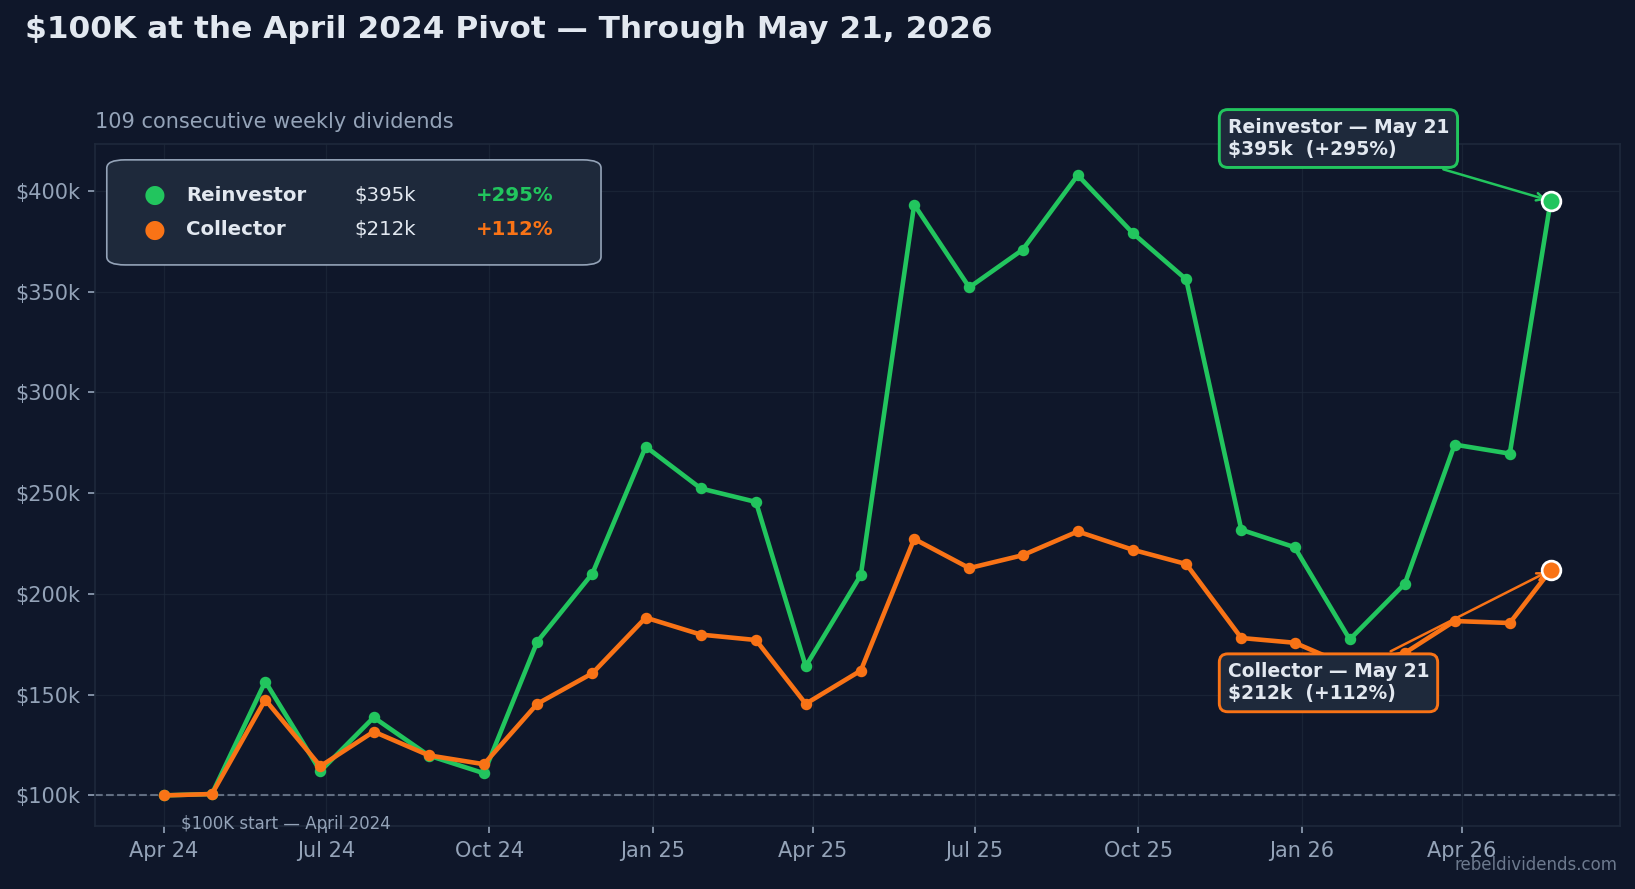
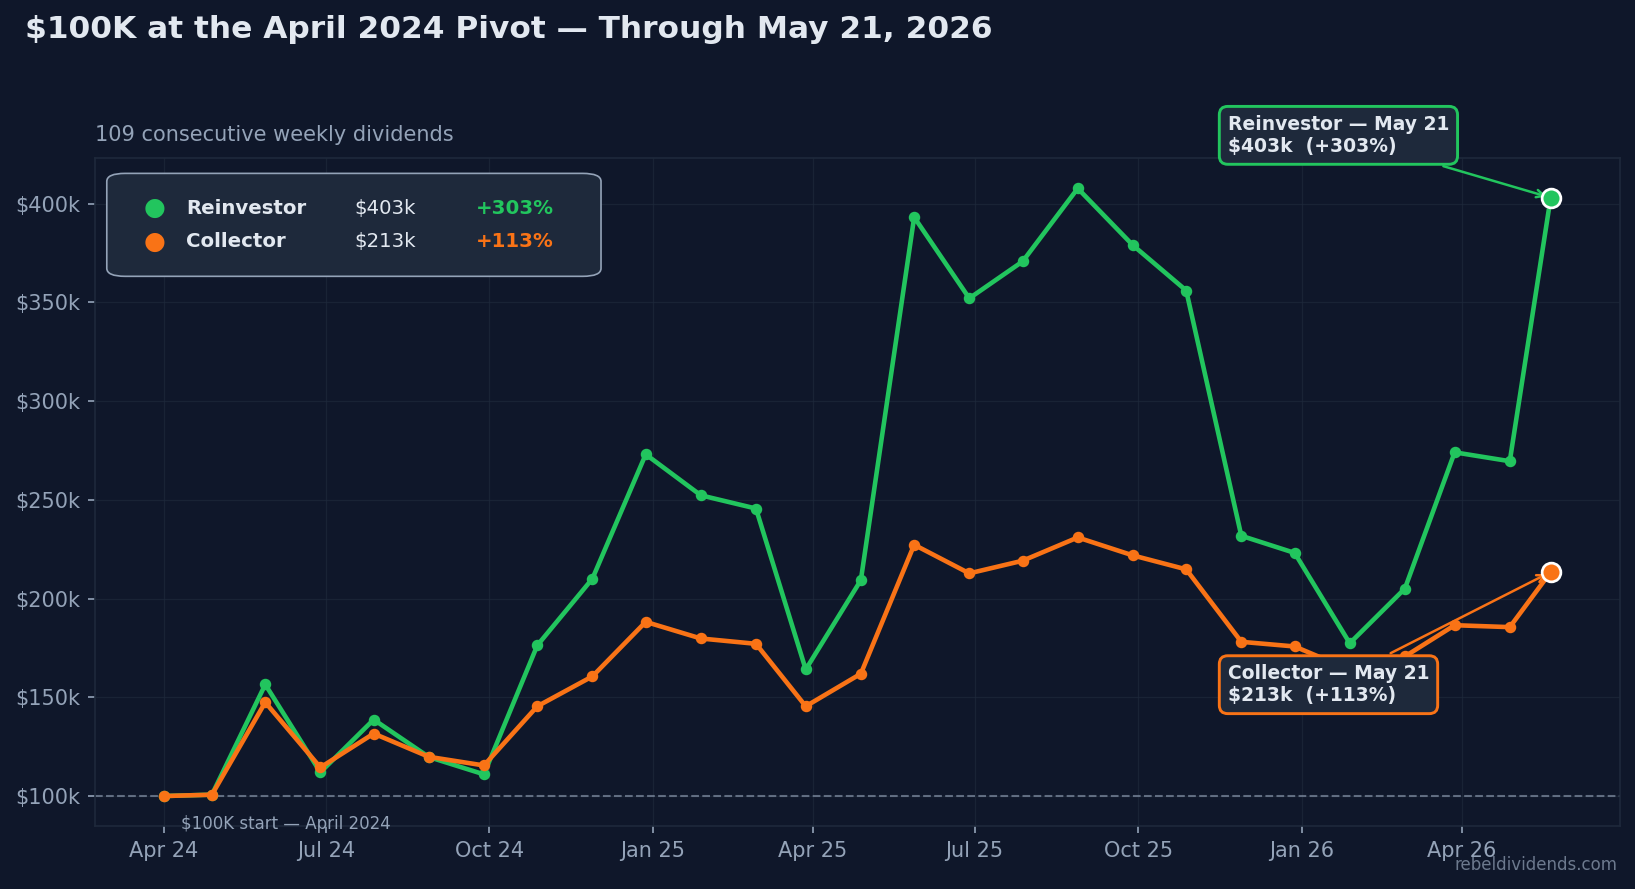
May 21 CORRECTION 2: price /bin/zsh.00246 +23.0%, chart +303%

diff --git a/outputs/2026-05-21/elementor.html b/outputs/2026-05-21/elementor.html
@@ -1,16 +1,16 @@
 <div style="max-width:760px;margin:0 auto;font-family:Arial,'Helvetica Neue',Helvetica,sans-serif;">
 
-<div style="font-size:13px;color:#888888;text-transform:uppercase;letter-spacing:2px;margin-bottom:8px;font-weight:700;">Rebel Dividends &middot; May 21, 2026 &middot; $0.00241 (<span style="color:#4ade80;">+20.5%</span>)</div>
+<div style="font-size:13px;color:#888888;text-transform:uppercase;letter-spacing:2px;margin-bottom:8px;font-weight:700;">Rebel Dividends &middot; May 21, 2026 &middot; $0.00246 (<span style="color:#4ade80;">+23.0%</span>)</div>
 
 <h2 style="margin:0 0 14px 0;font-size:26px;font-weight:700;color:#000000;line-height:1.3;">HYPE at $59.48. We Are Calling $90 in 90 Days.</h2>
 
-<p style="margin:0 0 18px 0;font-size:17px;line-height:1.7;color:#1a1a1a;">Your shares are at <strong>$0.00241</strong> this morning, up 20.5%. HYPE is at <strong>$59.48</strong>. We are calling <strong>$90 in 90 days</strong>. That is the target. The setup right now is as strong as it has ever been.</p>
+<p style="margin:0 0 18px 0;font-size:17px;line-height:1.7;color:#1a1a1a;">Your shares are at <strong>$0.00246</strong> this morning, up 23.0%. HYPE is at <strong>$59.48</strong>. We are calling <strong>$90 in 90 days</strong>. That is the target. The setup right now is as strong as it has ever been.</p>
 
 <p style="margin:0 0 18px 0;font-size:17px;line-height:1.7;color:#1a1a1a;"><strong style="color:#0a7c42;">$90 is the next chapter.</strong> Hyperliquid bought back and burned $1.3 billion in HYPE. That is 4.17% of supply gone permanently. 97% of protocol fees go back to token holders. The platform runs 70% of all decentralized perps volume at $180B a month. The platform has not slipped. The token is just catching up to what it is actually worth.</p>
 
 <p style="margin:0 0 18px 0;font-size:17px;line-height:1.7;color:#1a1a1a;">Tuesday&rsquo;s webinar walked through the full picture. The macro case for $90 and beyond, the buyback flywheel, and the weekly income that keeps paying no matter where HYPE prints on any given day. If you missed it, the replay is live now.</p>
 
-<p style="margin:0 0 18px 0;font-size:17px;line-height:1.7;color:#1a1a1a;"><strong>Reinvestors who started at the April 2024 pivot are up 295%. $100K is $395K today.</strong> Collectors are up 111.8%. That gap is the compounding effect of reinvesting at market. It widens every week.</p>
+<p style="margin:0 0 18px 0;font-size:17px;line-height:1.7;color:#1a1a1a;"><strong>Reinvestors who started at the April 2024 pivot are up 303%. $100K is $403K today.</strong> Collectors are up 113.5%. That gap is the compounding effect of reinvesting at market. It widens every week.</p>
 
 <p style="margin:0 0 22px 0;font-size:17px;line-height:1.7;color:#1a1a1a;"><strong style="color:#ff6600;">Watch the replay.</strong> It covers the full picture. Then call Dean and talk through your position.</p>
 

diff --git a/outputs/2026-05-21/email.html b/outputs/2026-05-21/email.html
@@ -8,7 +8,7 @@
 <tr>
 <td style="font-size:13px;color:#888888;text-transform:uppercase;letter-spacing:1px;font-family:Arial,sans-serif;">Rebel Dividends</td>
 <td style="text-align:right;font-family:Arial,sans-serif;">
-<span style="font-size:13px;color:#888888;">May 21, 2026</span>&nbsp;&nbsp;&nbsp;<span style="font-size:15px;font-weight:700;color:#333333;">$0.00241</span>&nbsp;&nbsp;<span style="font-size:15px;font-weight:700;color:#4ade80;">+20.5%</span>
+<span style="font-size:13px;color:#888888;">May 21, 2026</span>&nbsp;&nbsp;&nbsp;<span style="font-size:15px;font-weight:700;color:#333333;">$0.00246</span>&nbsp;&nbsp;<span style="font-size:15px;font-weight:700;color:#4ade80;">+23.0%</span>
 </td>
 </tr>
 </table>
@@ -21,7 +21,7 @@
 <td bgcolor="#ffffff" style="background-color:#ffffff;padding:0 25px;">
 <h2 style="margin:0 0 12px 0;font-size:22px;font-weight:700;color:#000000;font-family:Arial,sans-serif;"><a href="https://rebeldividends.com/startwebinar/" style="color:#000000;text-decoration:none;">HYPE at $59.48. We Are Calling $90 in 90 Days.</a></h2>
 
-<p style="margin:0 0 18px 0;font-size:16px;line-height:1.7;color:#333333;font-family:Arial,sans-serif;">Your shares are at <strong>$0.00241</strong> this morning, up 20.5%. HYPE is at <strong>$59.48</strong> and nearing the $60 high. We are expecting a breakout and calling <strong>$90 in 90 days</strong>. The setup right now is as strong as it has ever been.</p>
+<p style="margin:0 0 18px 0;font-size:16px;line-height:1.7;color:#333333;font-family:Arial,sans-serif;">Your shares are at <strong>$0.00246</strong> this morning, up 23.0%. HYPE is at <strong>$59.48</strong> and nearing the $60 high. We are expecting a breakout and calling <strong>$90 in 90 days</strong>. The setup right now is as strong as it has ever been.</p>
 
 <p style="margin:0 0 18px 0;font-size:16px;line-height:1.7;color:#333333;font-family:Arial,sans-serif;">Hyperliquid bought back and burned <strong>$1.3 billion in HYPE</strong>, 4.17% of the entire supply gone permanently. 97% of protocol fees go back to token holders. The platform runs 70% of all decentralized perps volume at $180B a month. The fundamentals keep building. The price is just now catching up.</p>
 
@@ -32,7 +32,7 @@
 <p style="margin:0 0 6px 0;font-size:16px;line-height:1.7;color:#333333;font-family:Arial,sans-serif;">&#x2022;&nbsp;<strong>Weekly dividends paid</strong> through every drawdown and every rally. Income has not stopped.</p>
 <p style="margin:0 0 20px 0;font-size:16px;line-height:1.7;color:#333333;font-family:Arial,sans-serif;">&#x2022;&nbsp;<strong>2026 dividends are tax-free.</strong> Return of Capital under IRC &sect;301(c)(2). Consult your CPA for your situation.</p>
 
-<p style="margin:0 0 20px 0;font-size:16px;line-height:1.7;color:#333333;font-family:Arial,sans-serif;"><strong>Reinvestors who started at the April 2024 pivot are up 295%. $100K is $395K today.</strong> Collectors are up 111.8%. The gap is the compounding effect. It widens every week.</p>
+<p style="margin:0 0 20px 0;font-size:16px;line-height:1.7;color:#333333;font-family:Arial,sans-serif;"><strong>Reinvestors who started at the April 2024 pivot are up 303%. $100K is $403K today.</strong> Collectors are up 113.5%. The gap is the compounding effect. It widens every week.</p>
 
 <p style="margin:0 0 20px 0;font-size:16px;line-height:1.7;color:#333333;font-family:Arial,sans-serif;"><strong style="color:#ff6600;">Watch the replay.</strong> It covers the full picture. Then call Dean and talk through your position.</p>
 </td>